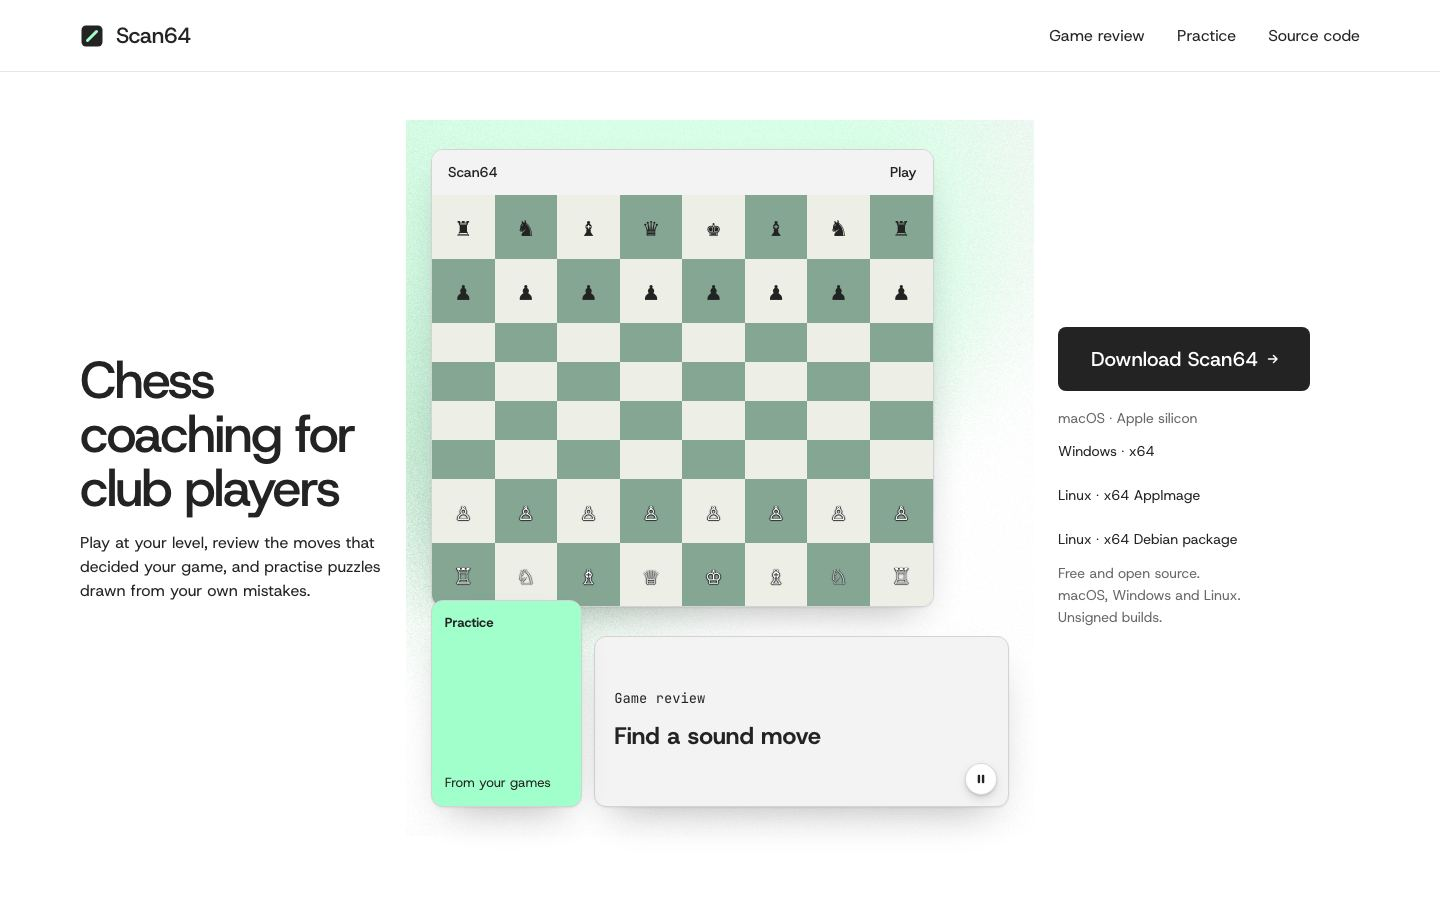
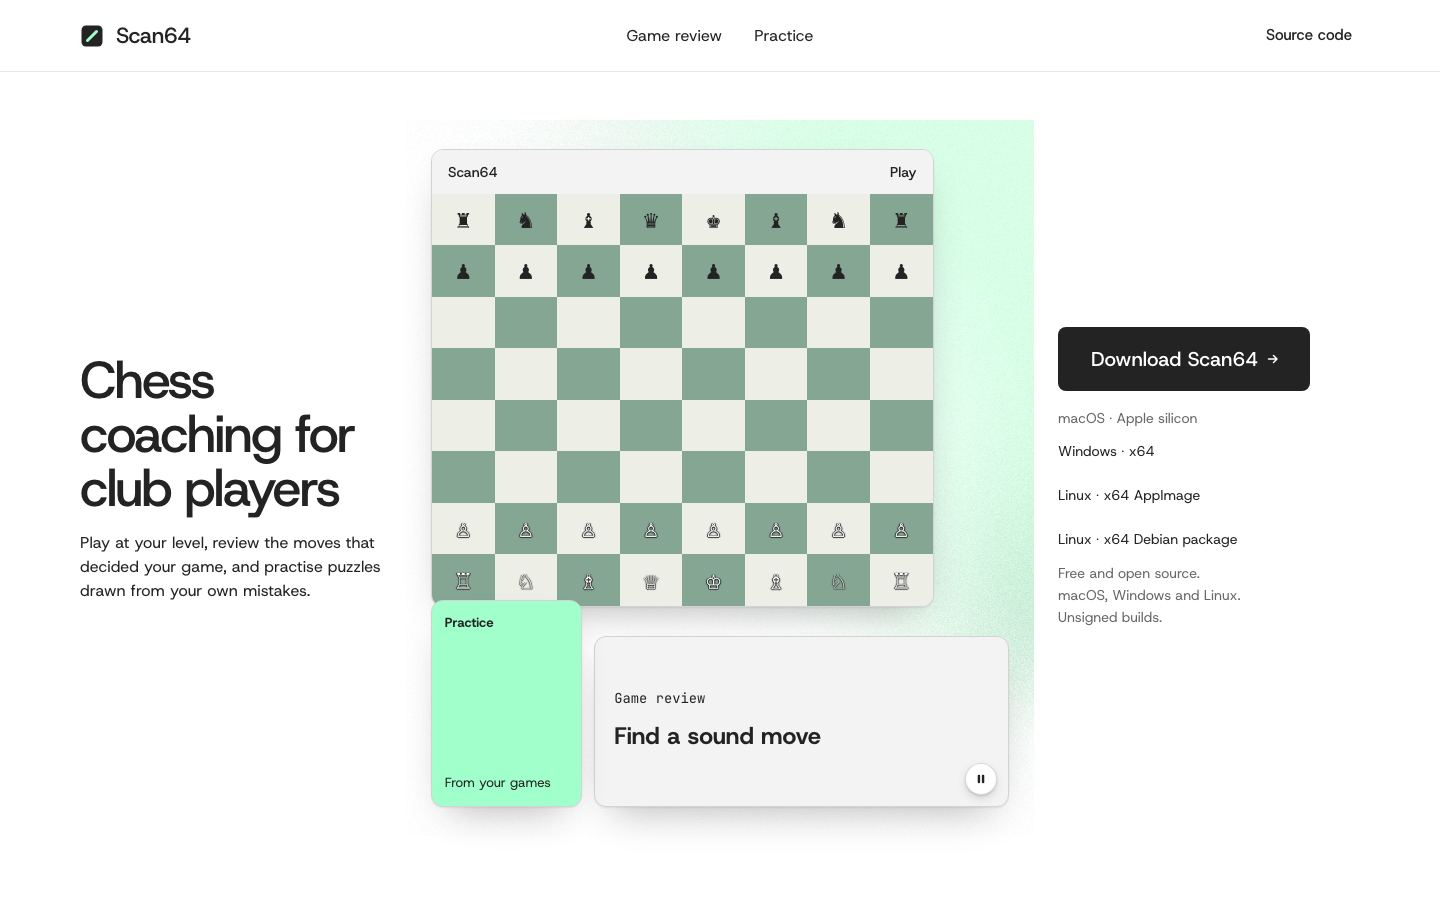
fix(site): finish responsive navigation and verification evidence

diff --git a/site/page.css b/site/page.css
@@ -10,3 +10,5 @@
 #practice .mo-la__sub{color:var(--ink)}
 .board{grid-template-rows:repeat(8,minmax(0,1fr))}.product-bar{height:44px;min-height:44px;box-sizing:border-box;line-height:20px}.nav .nav__actions{display:flex;align-items:center}.nav__inner .nav__links{flex:none}.nav__inner .nav__links a{padding-inline:12px}.nav__inner .nav__links{gap:8px}
 @media(min-width:640px) and (max-width:1200px){.app-sidebar{padding:16px;gap:6px}.app-sidebar span{padding:4px 8px;line-height:22px}.review-panel h3{font-size:20px;margin-bottom:12px}.move-row{padding:8px 0}.review-note{padding:12px}.review-panel p{margin-block:12px}}
+.nav:not(.is-open) .nav__actions > .nav__link{display:inline-flex;min-height:44px}
+@media(max-width:639px){.hero--triptych .hero__lead{font-size:16px}.hero__cta .small,.preview-tag{font-size:13px}}

diff --git a/site/validate.py b/site/validate.py
@@ -1,4 +1,5 @@
 """Check the static entry point without dependencies or network access."""
+
 from html.parser import HTMLParser
 from pathlib import Path
 from urllib.parse import unquote, urlsplit
@@ -14,24 +15,24 @@ class Page(HTMLParser):
 
     def handle_starttag(self, tag: str, attrs: list[tuple[str, str | None]]) -> None:
         values = dict(attrs)
-        if values.get('id'):
-            self.ids.add(str(values['id']))
-        for key in ('src', 'href'):
+        if values.get("id"):
+            self.ids.add(str(values["id"]))
+        for key in ("src", "href"):
             if values.get(key):
                 self.links.append(str(values[key]))
 
 
 page = Page()
-page.feed((ROOT / 'index.html').read_text())
+page.feed((ROOT / "index.html").read_text())
 for link in page.links:
     url = urlsplit(link)
     if url.scheme or url.netloc:
-        assert url.scheme == 'https', f'Non-HTTPS resource: {link}'
+        assert url.scheme == "https", f"Non-HTTPS resource: {link}"
         continue
-    assert not url.path.startswith('/'), f'Not sub-path safe: {link}'
+    assert not url.path.startswith("/"), f"Not sub-path safe: {link}"
     target = (ROOT / unquote(url.path)).resolve()
-    assert target.is_relative_to(ROOT), f'Resource escapes site: {link}'
-    assert target.exists(), f'Missing resource: {link}'
+    assert target.is_relative_to(ROOT), f"Resource escapes site: {link}"
+    assert target.exists(), f"Missing resource: {link}"
     if not url.path and url.fragment:
-        assert url.fragment in page.ids, f'Missing anchor: {link}'
-print(f'PASS: {len(page.links)} HTML resources and links; relative assets support /Scan64/.')
+        assert url.fragment in page.ids, f"Missing anchor: {link}"
+print(f"PASS: {len(page.links)} HTML resources and links; relative assets support /Scan64/.")
